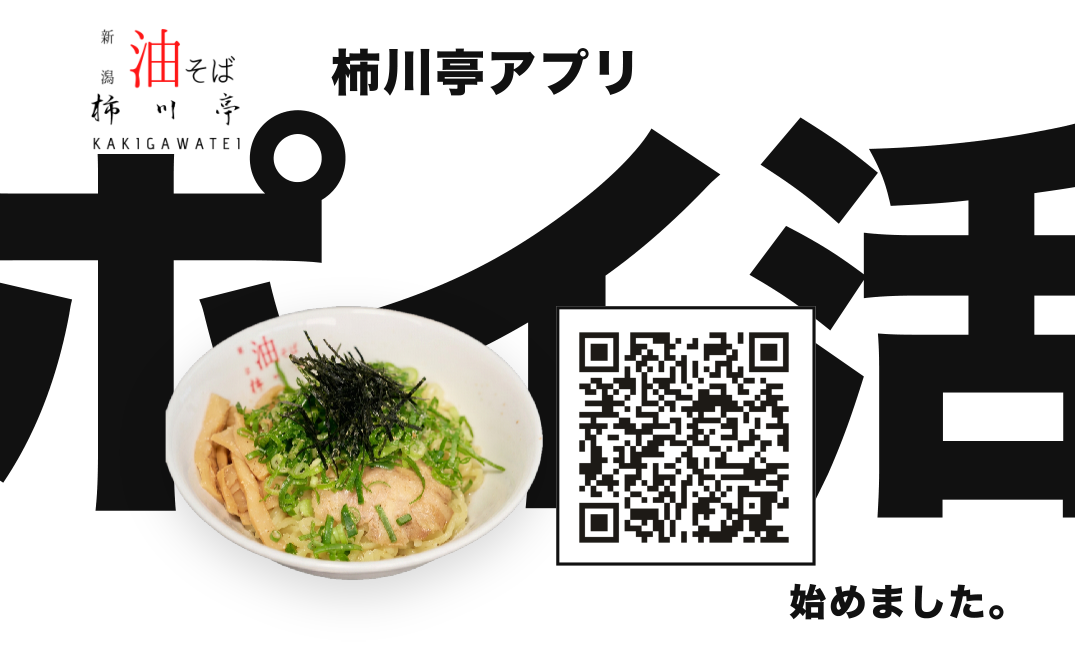
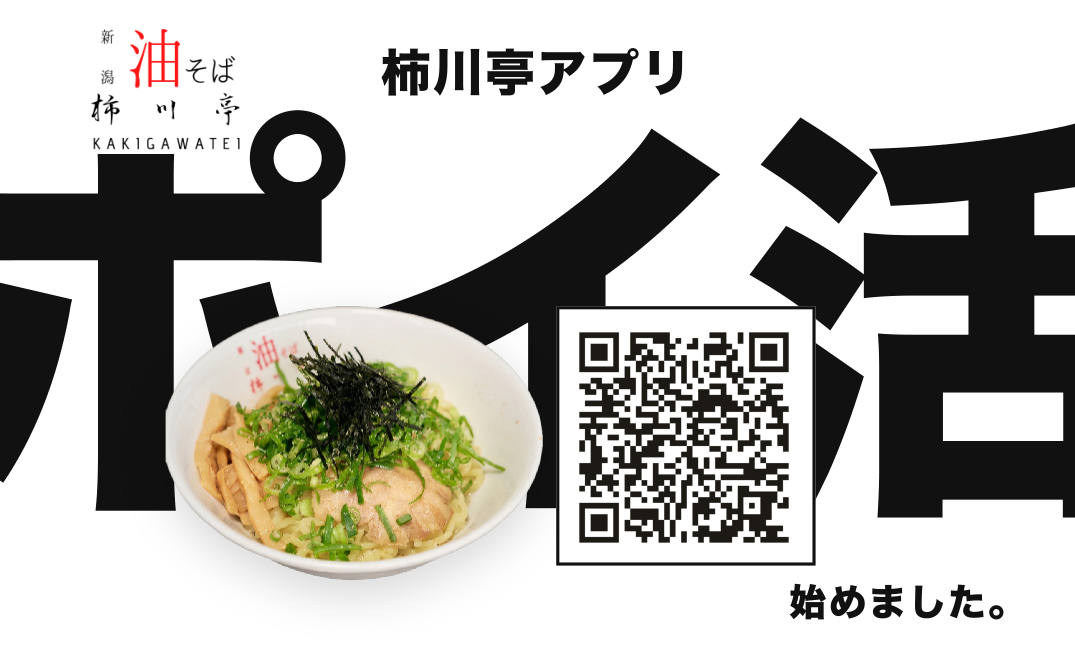
card: 「柿川亭アプリ」を中央揃え
Claude-Session: https://claude.ai/code/session_01T6j1opLjn85ZhCAmH6MAKP

Changed region(s): [[0.307, 0.0615, 0.6447, 0.1538]]

diff --git a/pop/card_v1.html b/pop/card_v1.html
@@ -67,7 +67,7 @@ body{font-family:"Yu Gothic","YuGothic","Hiragino Sans","Noto Sans JP",sans-seri
 .card{width:91mm;height:55mm;position:relative;overflow:hidden;border:0.2mm dashed #bbb;background:#fff}
 .card .logo{left:3mm;top:2mm;width:22mm;height:11mm}
 .card .h{display:none}
-.card .sub{left:28mm;top:3.5mm;width:60mm;font-size:12pt;line-height:1.3;white-space:nowrap;font-weight:900;letter-spacing:.04em}
+.card .sub{left:50%;transform:translateX(-50%);top:3.5mm;width:auto;font-size:12pt;line-height:1.3;white-space:nowrap;font-weight:900;letter-spacing:.04em;text-align:center}
 .card .qrc{display:none}
 .card .bh{position:absolute;left:50%;transform:translateX(-50%);top:9mm;font-size:36mm;font-family:"Hiragino Sans","Hiragino Kaku Gothic ProN","Yu Gothic",sans-serif;font-weight:900;white-space:nowrap;letter-spacing:-.04em;line-height:1;color:var(--ink);z-index:0}
 .card .haji{position:absolute;left:auto;right:4mm;top:49.3mm;font-size:9pt;text-shadow:0 0 0.6mm #fff,0 0 0.6mm #fff,0 0 1mm #fff;font-weight:900;letter-spacing:.06em;line-height:1;z-index:2}

diff --git a/pop/pop_v3.html b/pop/pop_v3.html
@@ -69,7 +69,7 @@ body{font-family:"Yu Gothic","YuGothic","Hiragino Sans","Noto Sans JP",sans-seri
 .card{width:91mm;height:55mm;position:relative;overflow:hidden;border:0.2mm dashed #bbb;background:#fff}
 .card .logo{left:3mm;top:2mm;width:22mm;height:11mm}
 .card .h{display:none}
-.card .sub{left:28mm;top:3.5mm;width:60mm;font-size:12pt;line-height:1.3;white-space:nowrap;font-weight:900;letter-spacing:.04em}
+.card .sub{left:50%;transform:translateX(-50%);top:3.5mm;width:auto;font-size:12pt;line-height:1.3;white-space:nowrap;font-weight:900;letter-spacing:.04em;text-align:center}
 .card .qrc{display:none}
 .card .bh{position:absolute;left:50%;transform:translateX(-50%);top:9mm;font-size:36mm;font-family:"Hiragino Sans","Hiragino Kaku Gothic ProN","Yu Gothic",sans-serif;font-weight:900;white-space:nowrap;letter-spacing:-.04em;line-height:1;color:var(--ink);z-index:0}
 .card .haji{position:absolute;left:auto;right:4mm;top:49.3mm;font-size:9pt;text-shadow:0 0 0.6mm #fff,0 0 0.6mm #fff,0 0 1mm #fff;font-weight:900;letter-spacing:.06em;line-height:1;z-index:2}
